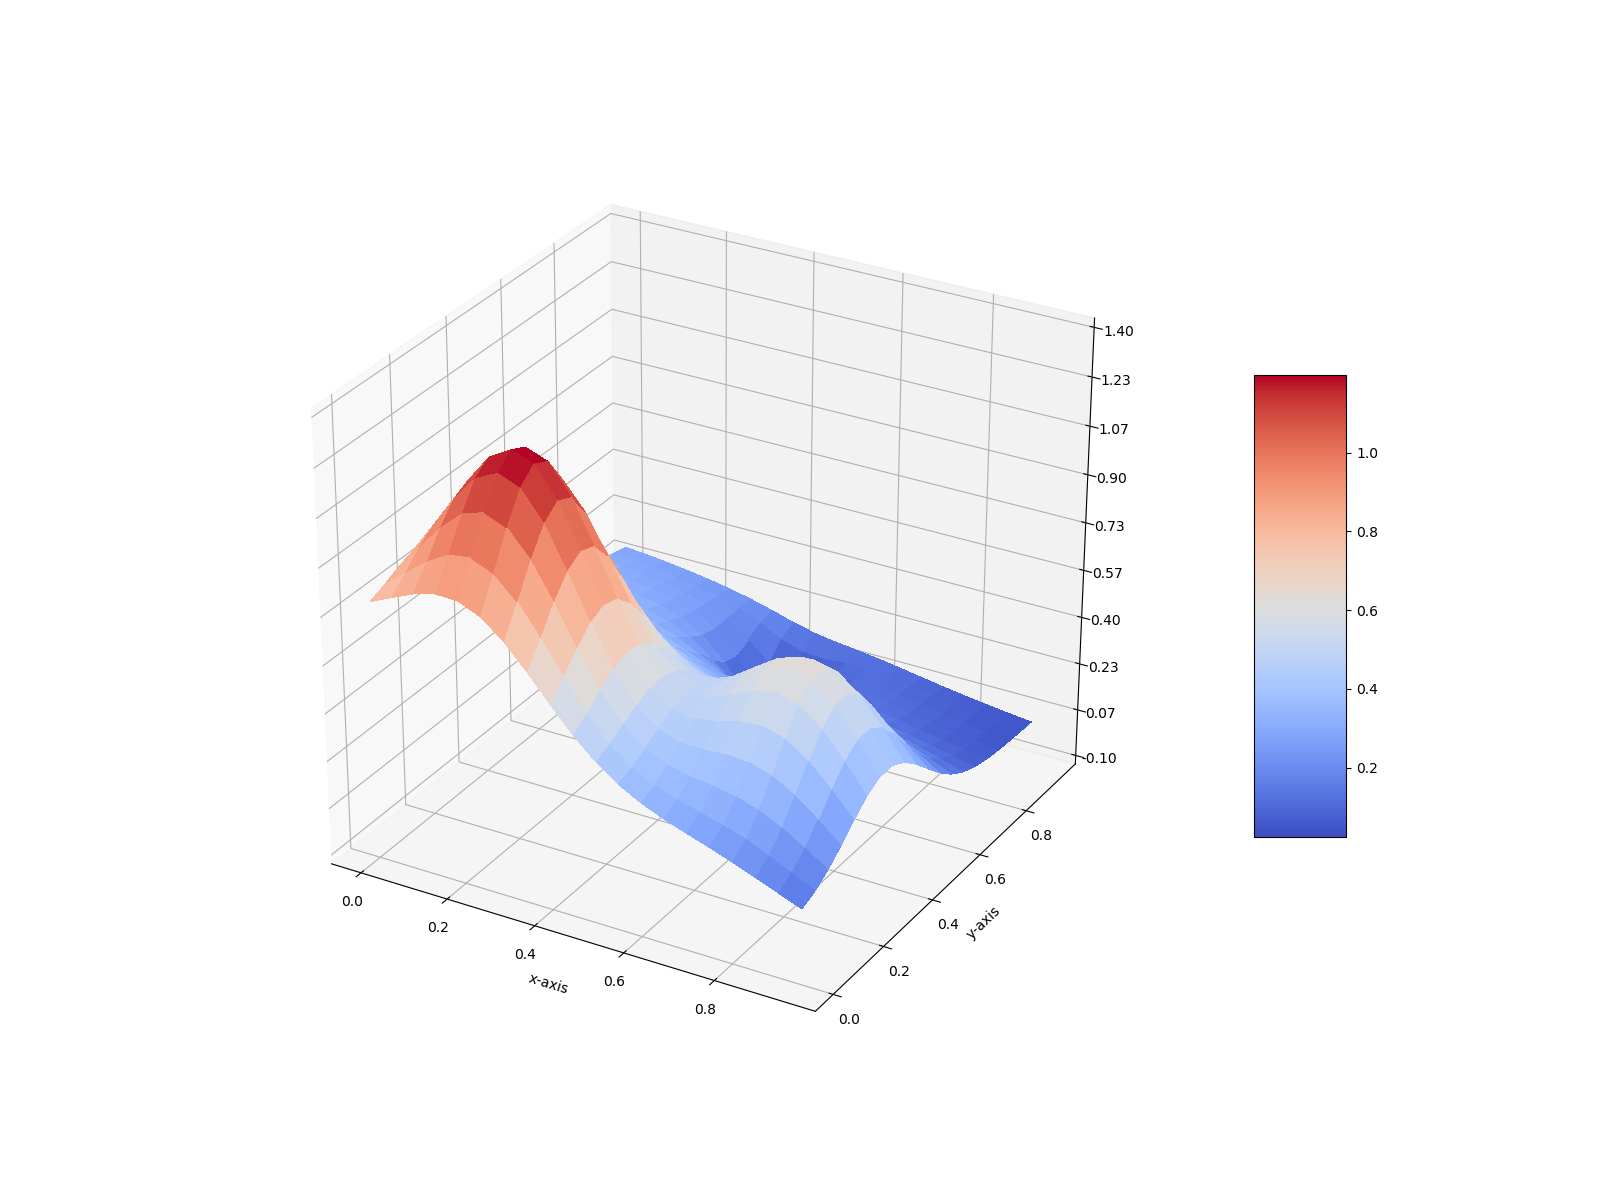
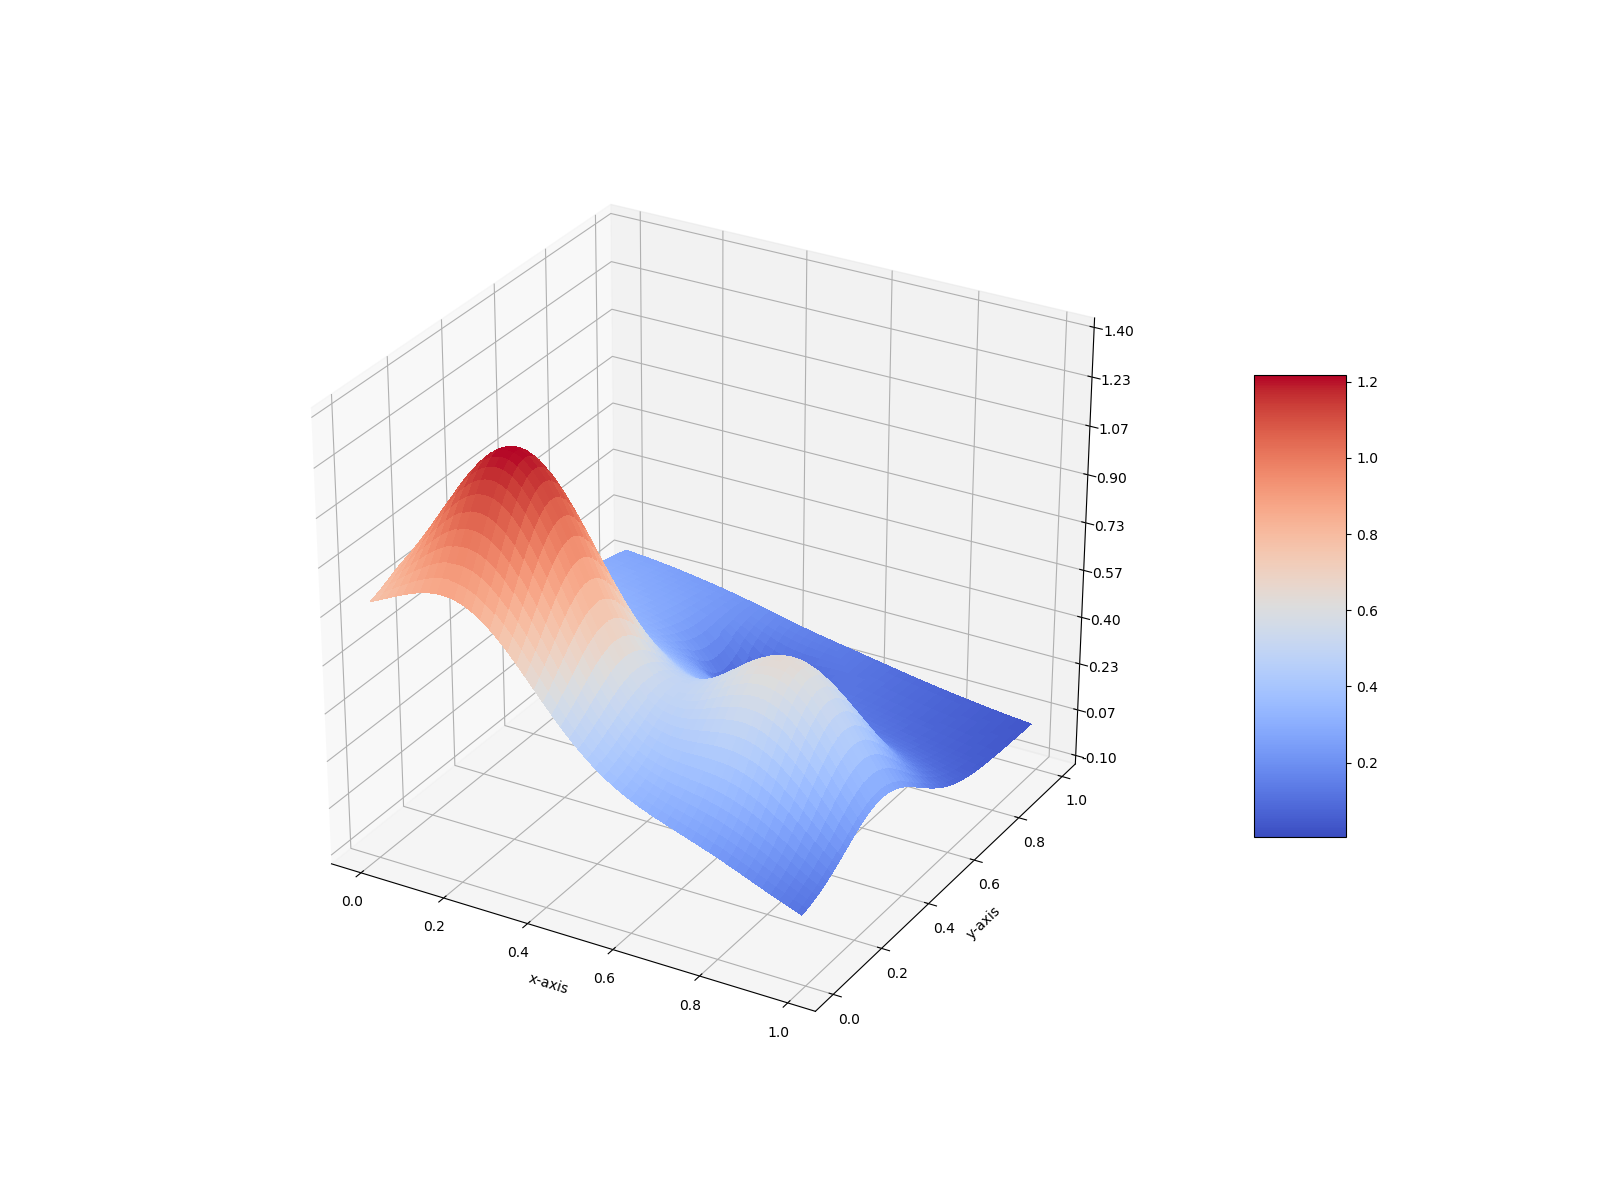
Fixed NeuralNetwork for regression

diff --git a/project2/NeuralNetwork.py b/project2/NeuralNetwork.py
@@ -1,5 +1,6 @@
 import numpy as np
 import scipy
+from sklearn.utils import shuffle
 
 class NeuralNetwork:
     def __init__(self, X, y,
@@ -59,17 +60,18 @@ class NeuralNetwork:
         self.create_biases_and_weights()
 
     def create_biases_and_weights(self):
-        W = [np.random.randn(self.n_features, self.n_hidden_neurons[0])]
+        W = [np.random.randn(self.n_features, self.n_hidden_neurons[0]) * np.sqrt(2/(self.n_features + self.n_hidden_neurons[0]))]
         b = [np.zeros((self.n_hidden_neurons[0], 1)) + 0.01]
         for l in range(1, self.n_layers):
-            W.append( np.random.randn(self.n_hidden_neurons[l-1], self.n_hidden_neurons[l]) )
+            W.append( np.random.randn(self.n_hidden_neurons[l-1], self.n_hidden_neurons[l]) 
+                            * np.sqrt(2/(self.n_hidden_neurons[l-1] + self.n_hidden_neurons[l])) )
             b.append( np.zeros((self.n_hidden_neurons[l], 1)) + 0.01 )
 
         #self.hidden_bias = np.zeros((self.n_layers, self.n_hidden_neurons, 1)) + 0.01
         self.hidden_weights = W
         self.hidden_bias = b
 
-        self.output_weights = np.random.randn(self.n_hidden_neurons[-1], self.n_categories)
+        self.output_weights = np.random.randn(self.n_hidden_neurons[-1], self.n_categories) * np.sqrt(2/(self.n_hidden_neurons[-1] + self.n_categories))
         self.output_bias = np.zeros((self.n_categories, 1)) + 0.01
 
     def feed_forward(self):
@@ -89,8 +91,8 @@ class NeuralNetwork:
         if self.problem == 'class':
             self.probabilities = self.softmax(self.z_o)
         elif self.problem == 'reg':
-            self.probabilities = self.activation_func(self.z_o)
-            #self.probabilities = self.z_o
+            #self.probabilities = self.activation_func(self.z_o)
+            self.probabilities = self.z_o
 
 
     def feed_forward_out(self, X):
@@ -107,8 +109,8 @@ class NeuralNetwork:
         if self.problem == 'class':
             probabilities = self.softmax(z_o)
         elif self.problem == 'reg':
-            probabilities = self.activation_func(z_o)
-            #probabilities = z_o
+            #probabilities = self.activation_func(z_o)
+            probabilities = z_o
 
         return probabilities
 
@@ -234,7 +236,8 @@ class NeuralNetwork:
         a_L = self.probabilities
 
         # Why does this get overflow?
-        error_output = a_L*(1- a_L)*(a_L - self.y)     # delta_L
+        #error_output = a_L*(1 - a_L)*(a_L - self.y)     # delta_L
+        error_output = a_L - self.y
         a_h = self.a_h[-1]
 
         # The gradients of the outputs
@@ -251,8 +254,8 @@ class NeuralNetwork:
         f_z_derived = self.activation_derivative(a_h)
         err = np.matmul(error_output, self.output_weights.T) * f_z_derived
 
-        if np.any(np.isnan(a_L)):
-            exit()
+        #if np.any(np.isnan(a_L)):
+        #    exit()
 
         for l in range((self.n_layers-2), -1, -1):
             error_hidden.insert(0,err)
@@ -271,13 +274,13 @@ class NeuralNetwork:
                 self.hidden_weights_gradient[i] += self.lmbd * self.hidden_weights[i]
 
         # Update the weights and biases
-        self.output_weights -= self.eta * self.output_weights_gradient
-        self.output_bias -= self.eta * self.output_bias_gradient
+        self.output_weights -= self.eta * self.output_weights_gradient * 1/self.batch_size
+        self.output_bias -= self.eta * self.output_bias_gradient * 1/self.batch_size
         for i in range(len(self.hidden_weights)):
-            self.hidden_weights[i] -= self.eta * self.hidden_weights_gradient[i]
-            self.hidden_bias[i] -= self.eta * self.hidden_bias_gradient[i]
+            self.hidden_weights[i] -= self.eta * self.hidden_weights_gradient[i] * 1/self.batch_size
+            self.hidden_bias[i] -= self.eta * self.hidden_bias_gradient[i] * 1/self.batch_size
 
-        print(self.output_weights)
+        #print(self.output_weights)
 
     def sgd(self, n_epochs, n_minibatches=None):
         Xtrain = self.Xtrain; Xtest = self.Xtest; ytrain = self.ytrain; ytest = self.ytest
@@ -319,6 +322,15 @@ class NeuralNetwork:
         probabilities = self.feed_forward_out(X)
         return probabilities
 
+    
+    def MSE(self, z, z_pred):
+        """ Function to evaluate the Mean Squared Error """
+        z = np.ravel(z)
+        z_pred = np.ravel(z_pred)
+        mse = (1/len(z))*np.sum((z-z_pred)**2)
+        return mse
+
+
     def train(self):
         data_indices = np.arange(self.n_inputs)
 
@@ -336,14 +348,33 @@ class NeuralNetwork:
 
         if self.problem == "reg":
             for i in range(self.epochs):
-                print(f"epoch {i}")
-                for j in range(self.iterations):
-                    print(f"iteration {j}")
+                #print(f"epoch {i}")
+
+                X_shuffled, y_shuffled = shuffle(self.X_full_data, self.y_full_data)
+
+                n_batches = int(np.ceil(len(self.X_full_data) / self.batch_size))
+                
+
+                for b in range(n_batches):
+
+                #for j in range(self.iterations):
                     # Pick datapoint with repacement:
-                    chosen_datapoints = np.random.choice(
-                            data_indices, size=self.batch_size, replace=False)
+                    #chosen_datapoints = np.random.choice(
+                    #        data_indices, size=self.batch_size, replace=False)
                     # minibatch training data
-                    self.X = self.X_full_data[chosen_datapoints]
-                    self.y = self.y_full_data[chosen_datapoints]
+
+                    self.X = X_shuffled[b*self.batch_size: min((b+1)*self.batch_size, len(X_shuffled))]
+                    self.y = y_shuffled[b*self.batch_size: min((b+1)*self.batch_size, len(y_shuffled))]
+                    #self.X = self.X_full_data[chosen_datapoints]
+                    #self.y = self.y_full_data[chosen_datapoints]
                     self.feed_forward()
                     self.back_propagation_regression()
+
+                pred = self.predict(self.X_full_data)
+                mse = self.MSE(self.y_full_data, pred)
+                print(mse)
+
+                    
+
+
+

diff --git a/project2/franke_fuction.py b/project2/franke_fuction.py
@@ -1,5 +1,6 @@
 # General imports
 import numpy as np
+from sklearn.neural_network import MLPRegressor
 
 # Import own classes and functions
 from NeuralNetwork import NeuralNetwork
@@ -7,7 +8,7 @@ from own_code import *
 
 
 # ---MAKE DATA---
-k = 20                       # Number of points on each axis
+k = 100                       # Number of points on each axis
 x = np.arange(0, 1, 1/k)     # Numbers on x-axis
 y = np.arange(0, 1, 1/k)     # Numbers on y-axis
 #xmax = x/(np.amax(x))       # To normalize the x-axis
@@ -21,9 +22,7 @@ x1 = np.ravel(x)            # Flatten to vector
 y1 = np.ravel(y)            # Flatten to vector
 n = len(x1)                 # Number of observations (n=k*k)
 np.random.seed(1001)        # Set seed for reproducability
-z1 = np.ravel(z) + np.random.normal(0, .1, n)    # Add noise if wanted
-
-#X = CreateDesignMatrix_X(x1, y1, d=1)
+z1 = np.ravel(z) #+ np.random.normal(0, .1, n)    # Add noise if wanted
 
 # Plot Franke Function
 make3Dplot(x,y,z, name="franke_func", show=False)
@@ -34,7 +33,6 @@ make3Dplot(x,y,z, name="franke_func", show=False)
 # Set up training data
 test_size = 0.3
 test_inds, train_inds = test_train_index(n, test_size=test_size)
-
 x_train = x1[train_inds]
 x_test = x1[test_inds]
 y_train = y1[train_inds]
@@ -50,27 +48,25 @@ X_test = CreateDesignMatrix_X(x_test, y_test, d=1)
 #from sklearn.preprocessing import normalize
 #z_train = normalize(z_train.reshape(-1,1))
 #print(np.min(z_train), np.max(z_train))
-"""
 from sklearn.preprocessing import StandardScaler
 scaler = StandardScaler()
 scaler.fit(X_train)
 X_train = scaler.transform(X_train)
 X_test = scaler.transform(X_test)
-"""
+
 
 # Create Neural Network
-eta = 0.0001                   # Learning rate
-lmbd = 0.0                    # Regression parameter
-epochs = 100                # Number of epochs
+eta = 1e-1                   # Learning rate
+lmbd = 0                   # Regression parameter
+epochs = int(1e+2)               # Number of epochs
 batch_size = int(n/50)      # Batch size = (number of observations) / (number of batches)
 n_layers = 5                # Number of hidden layers
-n_hidden_neurons = [20]*5      # Number of neurons in the hidden layers
+n_hidden_neurons = [80]*n_layers      # Number of neurons in the hidden layers
 activation = 'leakyReLU'
-nn = NeuralNetwork(X_train, y_train, n_layers=n_layers, activation=activation,
+nn = NeuralNetwork(X_train, z_train, n_layers=n_layers, activation=activation,
                     n_hidden_neurons=n_hidden_neurons, epochs=epochs,
                     batch_size=batch_size,
                     eta=eta, lmbd=lmbd, problem='reg', seed=1)
-
 
 nn.train()
 z_pred = nn.predict(X_test)
@@ -84,16 +80,43 @@ print('\n', z_test[:20])
 print(z_pred[:20])
 
 # Plot
-make3Dplot(x_test, y_test, z_test, title="Franke function (test set)", show=False)
-make3Dplot(x_test, y_test, z_pred, title="Neural Network (regression)", show=True)
+#make3Dplot(x_test, y_test, z_test, title="Franke function (test set)", show=False)
+#make3Dplot(x_test, y_test, z_pred.ravel(), title="Neural Network (regression)", show=True)
+
+fig = plt.figure()
+ax = fig.gca(projection='3d')
+surf = ax.plot_trisurf(x_test, y_test, z_pred.ravel(), cmap=cm.coolwarm, linewidth = 0,
+                        antialiased=False)
+plt.xlabel("x-axis")
+plt.ylabel("y-axis")
+fig.colorbar(surf, shrink=0.5, aspect=5)
+plt.show()
+
+
+# --- SCIKIT LEARN NEURAL NETWORK TEST ---
+scikitNN = MLPRegressor(hidden_layer_sizes=n_hidden_neurons, alpha=lmbd, 
+                            learning_rate_init=eta, max_iter=epochs)
+scikitNN.fit(X_train, z_train)
+print("SCIKIT learn MLPRegressor:")
+print(scikitNN.score(X_test, z_test))
+print(scikitNN.batch_size)
+
+fig = plt.figure()
+ax = fig.gca(projection='3d')
+surf = ax.plot_trisurf(x_test, y_test, scikitNN.predict(X_test).ravel(), cmap=cm.coolwarm, linewidth = 0,
+                        antialiased=False)
+plt.xlabel("x-axis")
+plt.ylabel("y-axis")
+fig.colorbar(surf, shrink=0.5, aspect=5)
+plt.show()
+
 
 
 """
-
 # DO GRID SEARCH to find optinal FFNN hyperparameters lmbd and eta
 print(f"\nPerforming grid test to find optimal learning rate and lambda for the Neural Network:")
-eta_vals = np.logspace(-8,3,12)
-lmbd_vals = np.logspace(-8,3,12)
+eta_vals = np.logspace(-14,-5,10)
+lmbd_vals = np.logspace(-1,8,10)
 
 nn_grid = np.zeros((len(eta_vals), len(lmbd_vals)), dtype=object)
 epochs = 100
@@ -119,7 +142,7 @@ for i, eta in enumerate(eta_vals):
 
 
 print(f"Minimum MSE: {np.min(mse_scores)}")
-opt_eta_index, opt_lmbd_index = np.where(mse_scores == np.min(mse_scores))
+opt_eta_index, opt_lmbd_index = np.where(mse_scores == np.nanmin(mse_scores))
 opt_eta = eta_vals[opt_eta_index]
 opt_lmbd = lmbd_vals[opt_lmbd_index]
 print(f"Obtained with parameters:")
@@ -147,5 +170,4 @@ plt.ylabel("log10(learning rate)")
 plt.xlabel("log10(lambda)")
 save_fig("NN_mse_map_frankefunc", extension='pdf')
 plt.show()
-
 """
